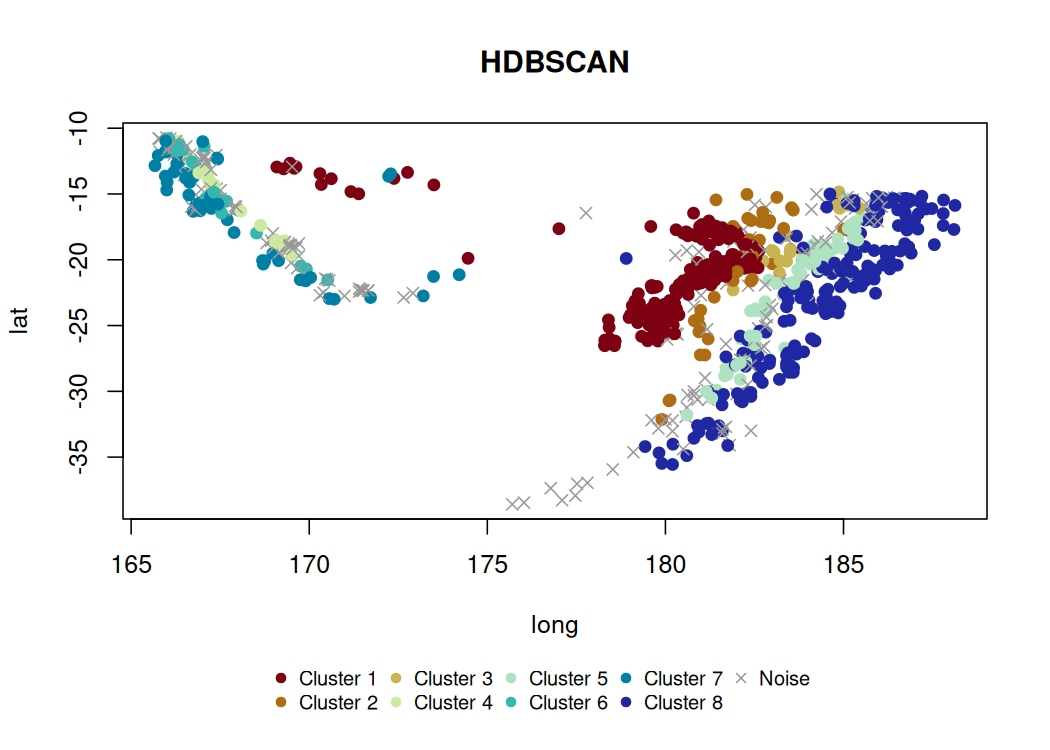
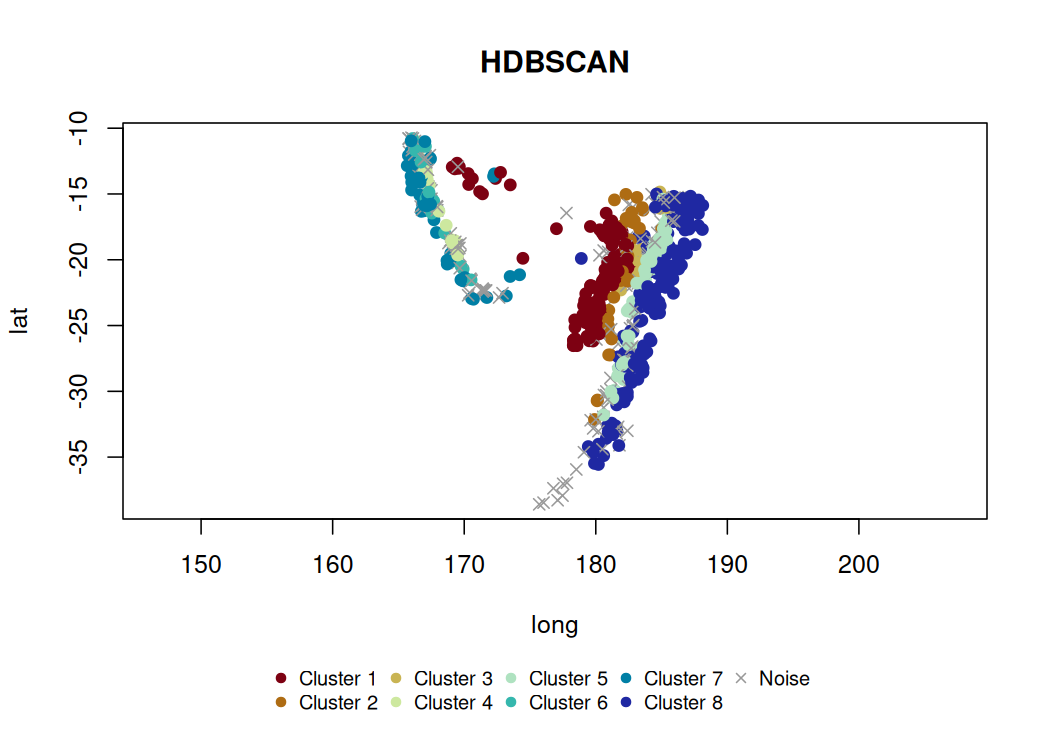
update readme

diff --git a/README.md b/README.md
@@ -5,6 +5,12 @@
 
 <!-- badges: start -->
 
+[![extendr](https://img.shields.io/badge/extendr-%5E0.8.1-276DC2)](https://extendr.github.io/extendr/extendr_api/)
+[![R-CMD-check](https://github.com/belian-earth/petalcluster/actions/workflows/R-CMD-check.yaml/badge.svg)](https://github.com/belian-earth/petalcluster/actions/workflows/R-CMD-check.yaml)
+[![Codecov test
+coverage](https://codecov.io/gh/belian-earth/petalcluster/graph/badge.svg)](https://app.codecov.io/gh/belian-earth/petalcluster)
+[![Lifecycle:
+experimental](https://img.shields.io/badge/lifecycle-experimental-orange.svg)](https://lifecycle.r-lib.org/articles/stages.html#experimental)
 <!-- badges: end -->
 
 R bindings to the
@@ -75,7 +81,7 @@ Use `xcol` and `ycol` to plot a single pair of variables — here
 longitude vs latitude reveals the geographic structure of the clusters:
 
 ``` r
-plot(quakes_hdbscan, xcol = "long", ycol = "lat")
+plot(quakes_hdbscan, xcol = "long", ycol = "lat", asp=1)
 ```
 
 <img src="man/figures/README-example-xy-1.png" width="100%" />
